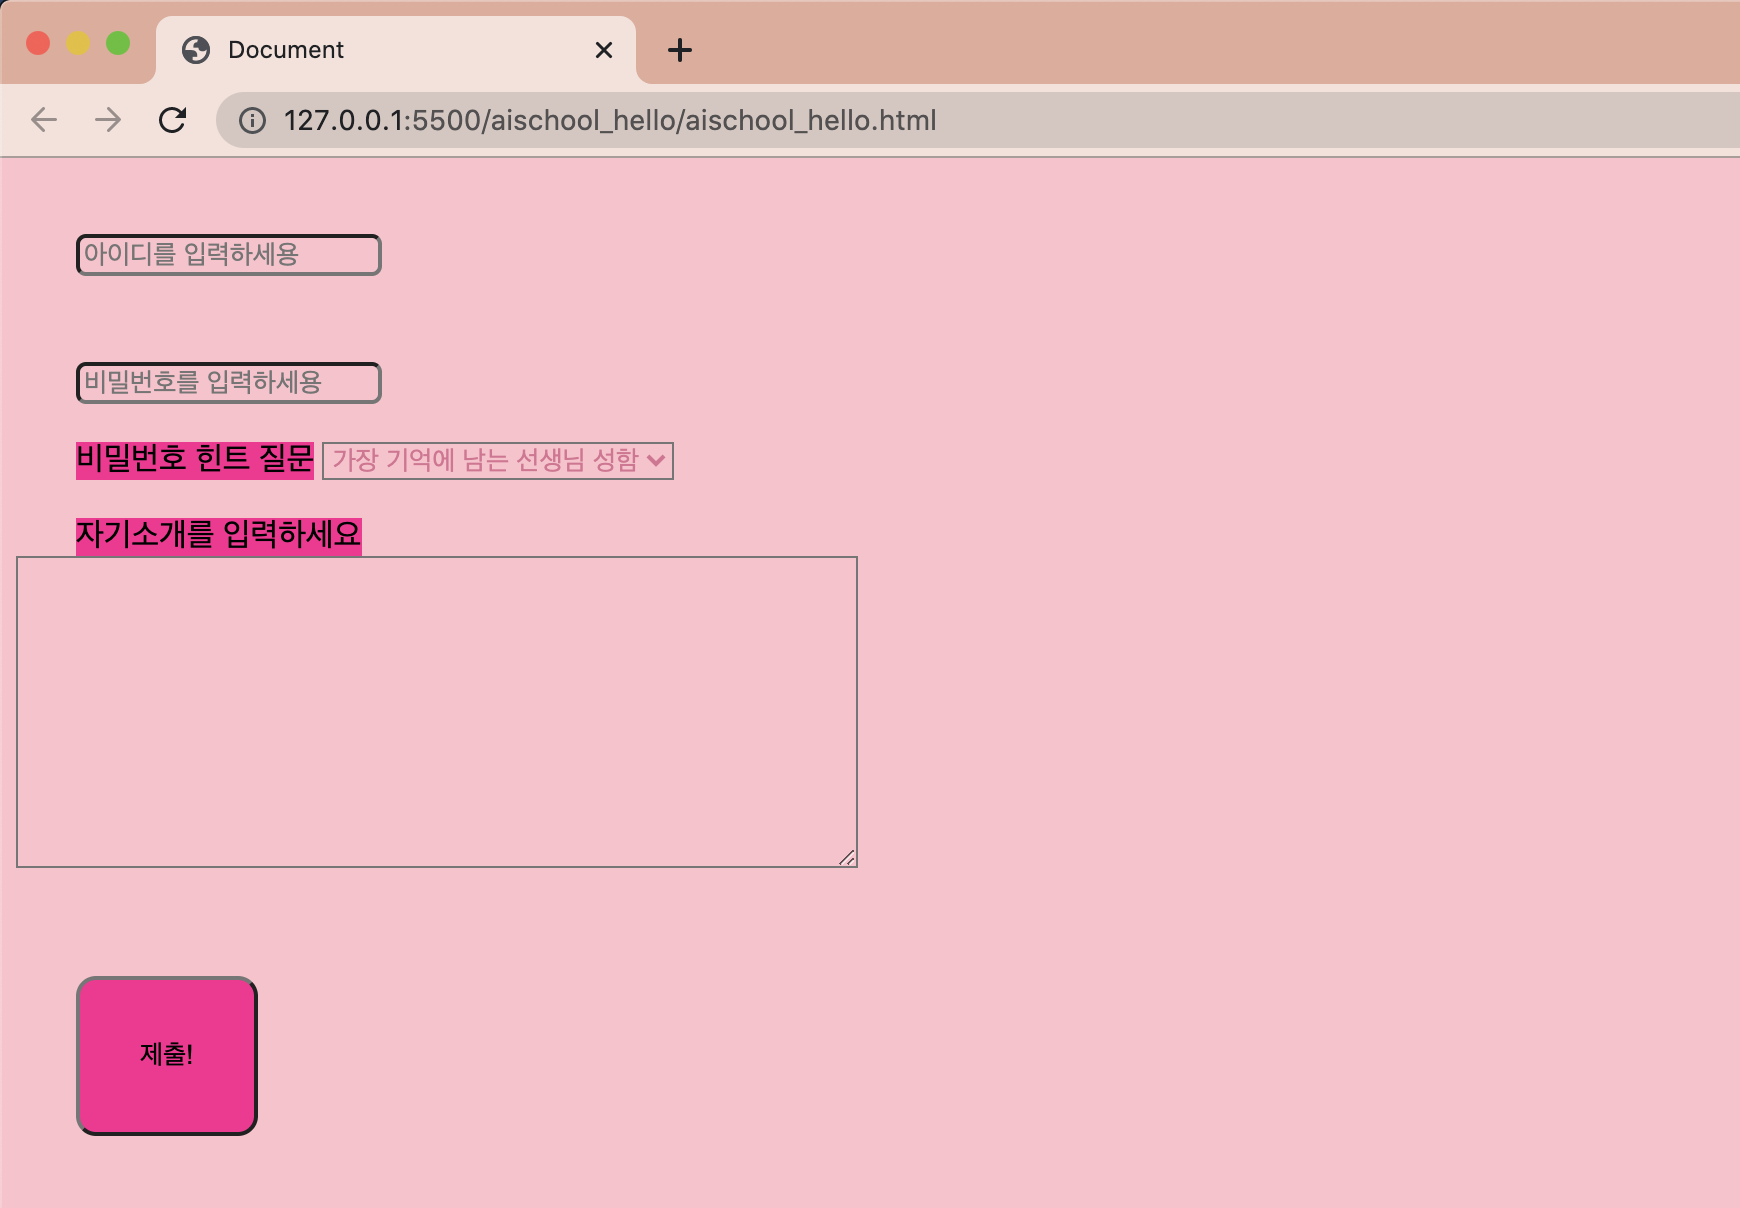
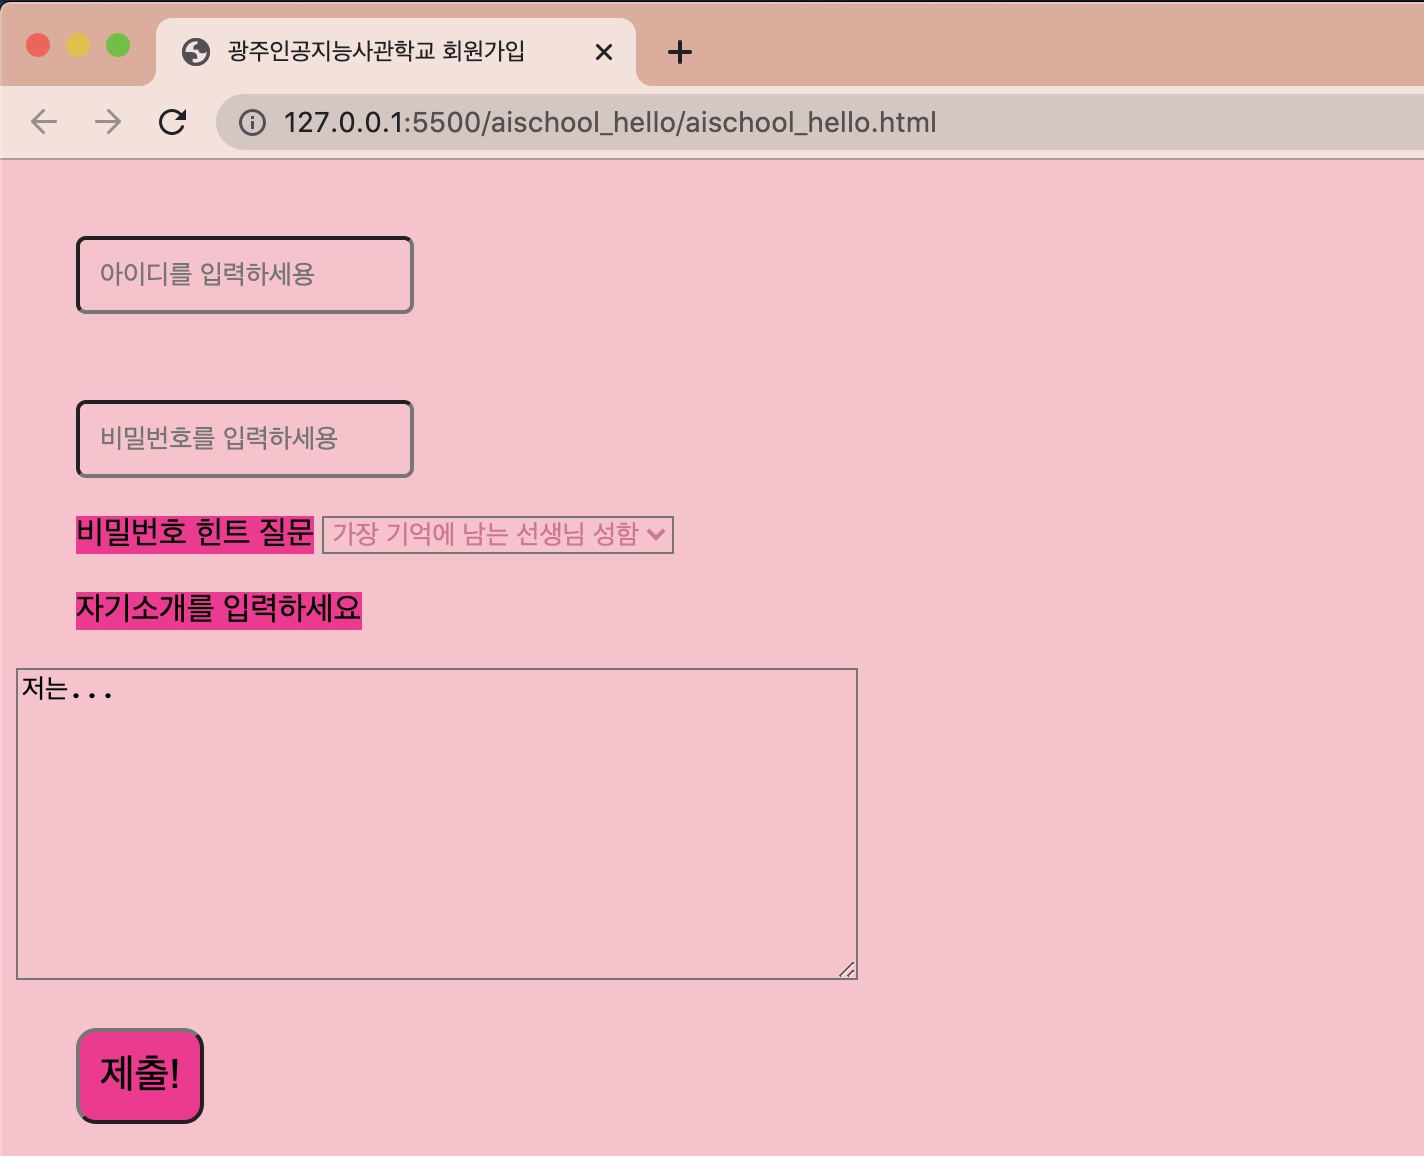
디자인 약간 수정

diff --git a/aischool_hello.html b/aischool_hello.html
@@ -3,7 +3,7 @@
   <head>
     <meta charset="UTF-8" />
     <meta name="viewport" content="width=device-width, initial-scale=1.0" />
-    <title>Document</title>
+    <title>광주인공지능사관학교 회원가입</title>
     <link rel="stylesheet" type="text/css" href="aischool_hello.css" />
   </head>
   <body>
@@ -35,7 +35,10 @@
       <br />
       <label id="label_introduce" for="introduce">자기소개를 입력하세요</label>
       <br />
-      <textarea id="introduce" name="introduce" cols="50" rows="10"></textarea>
+      <br />
+      <textarea id="introduce" name="introduce" cols="50" rows="10">
+저는...</textarea
+      >
       <br />
       <br />
       <button id="submit_button" type="submit">제출!</button>

diff --git a/aischool_hello.css b/aischool_hello.css
@@ -6,12 +6,14 @@
   border-radius: 5px;
   margin-top: 30px;
   margin-left: 30px;
+  padding: 10px;
 }
 
 #userpw {
   border-radius: 5px;
   margin-top: 5px;
   margin-left: 30px;
+  padding: 10px;
 }
 
 #label_pwhint {
@@ -36,8 +38,9 @@
 }
 
 #submit_button {
-  margin: 30px;
-  padding: 30px;
+  margin-left: 30px;
+  padding: 10px;
   background-color: deeppink;
   border-radius: 10px;
+  font-size: 20px;
 }
